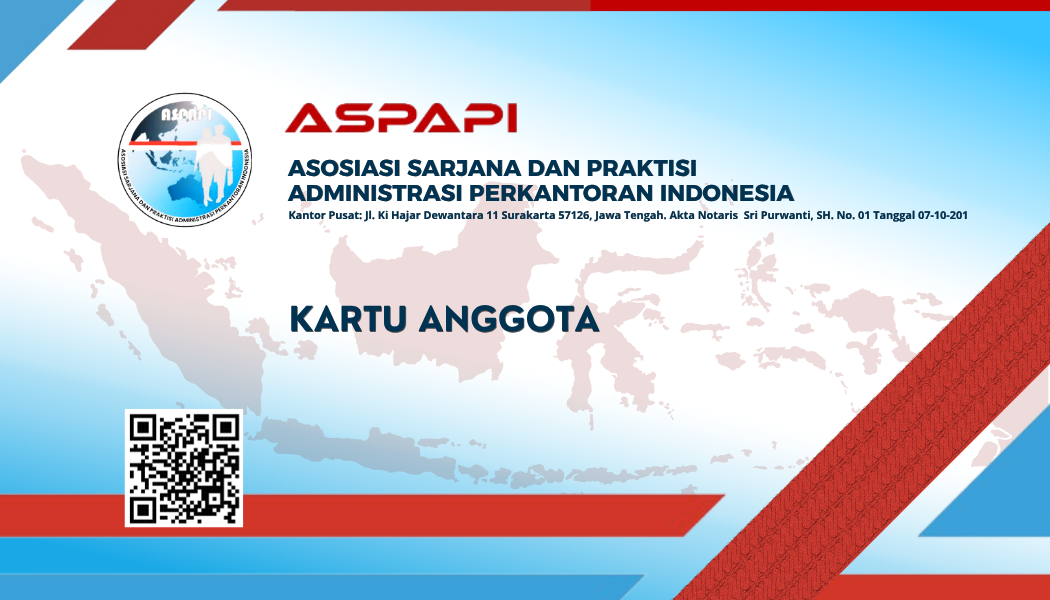
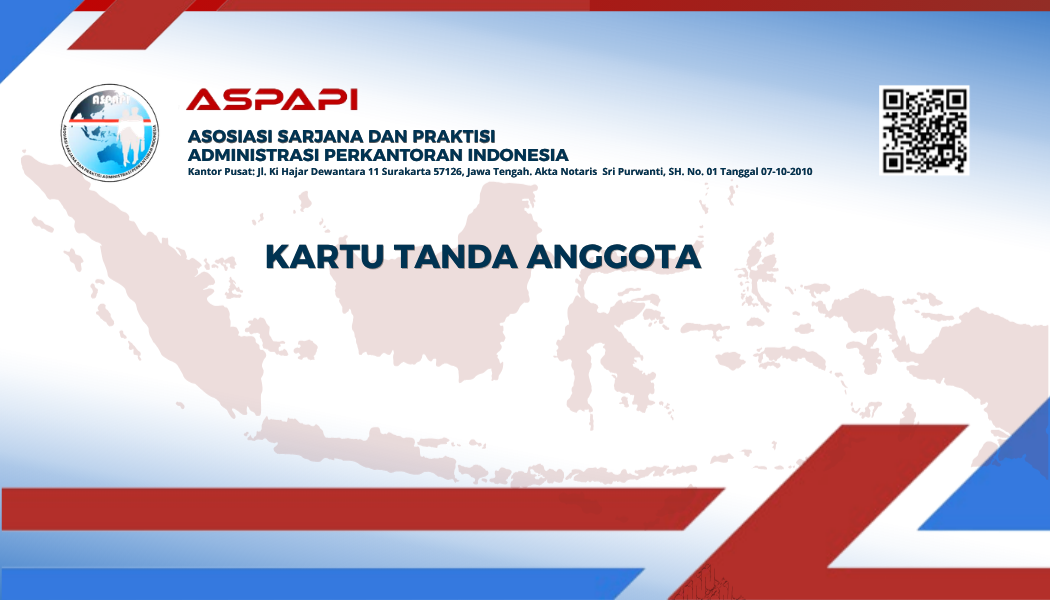
update: kta

diff --git a/aspapi/resources/views/member/card-pdf.blade.php b/aspapi/resources/views/member/card-pdf.blade.php
@@ -37,21 +37,36 @@
         display: block;
     }
 
+    /* ── QR: pojok kanan atas ── */
+    .qr-wrap {
+        position: absolute;
+        right: 2mm;
+        top: 2mm;
+        width: 13mm;
+        height: 13mm;
+        overflow: hidden;
+    }
+    .qr-wrap img {
+        width: 13mm;
+        height: 13mm;
+        display: block;
+    }
+
+    /* ── Foto: kiri bawah, sejajar area identitas ── */
     .photo-wrap {
         position: absolute;
-        right: 12.5mm;
-        top: 28mm;
-        width: 14.5mm;
-        height: 18.7mm;
+        left: 2.5mm;
+        top: 26mm;
+        width: 18mm;
+        height: 22mm;
         overflow: hidden;
-        border-radius: 12px;
+        border-radius: 3px;
         border: 1px solid #b0bac5;
     }
     .photo-wrap img {
-        width: 16.6mm;
-        height: 20.7mm;
+        width: 18mm;
+        height: 22mm;
         display: block;
-        margin-left: -1mm;
     }
 
     .photo-placeholder {
@@ -61,26 +76,12 @@
         display: block;
     }
 
-    .qr-wrap {
-        position: absolute;
-        left: 7.3mm;
-        top: 30.1mm;
-        width: 14.5mm;
-        height: 14.5mm;
-        overflow: hidden;
-    }
-    .qr-wrap img {
-        width: 14.5mm;
-        height: 14.5mm;
-        display: block;
-    }
-
-    /* ── Nama: 1 baris ── */
+    /* ── Nama ── */
     .member-name.single {
         position: absolute;
-        top: 34.2mm;
-        left: 24.9mm;
-        right: 18.7mm;
+        top: 27mm;
+        left: 23mm;
+        right: 2mm;
         font-size: 6pt;
         font-weight: 900;
         color: #0D2240;
@@ -89,12 +90,11 @@
         overflow: hidden;
     }
 
-    /* ── Nama: 2 baris ── */
     .member-name.double {
         position: absolute;
-        top: 31.5mm;
-        left: 24.9mm;
-        right: 18.7mm;
+        top: 26mm;
+        left: 23mm;
+        right: 2mm;
         font-size: 5.5pt;
         font-weight: 900;
         color: #0D2240;
@@ -103,12 +103,11 @@
         overflow: hidden;
     }
 
-    /* ── Nama: 3 baris ── */
     .member-name.triple {
         position: absolute;
-        top: 29.5mm;
-        left: 24.9mm;
-        right: 18.7mm;
+        top: 25mm;
+        left: 23mm;
+        right: 2mm;
         font-size: 5pt;
         font-weight: 900;
         color: #0D2240;
@@ -120,11 +119,11 @@
     /* ── NIA ── */
     .member-nia.single {
         position: absolute;
-        top: 36.8mm;
-        left: 24.9mm;
-        right: 18.7mm;
-        font-size: 6pt;
-        font-weight: 400;
+        top: 30mm;
+        left: 23mm;
+        right: 2mm;
+        font-size: 6.5pt;
+        font-weight: 700;
         color: #0D2240;
         letter-spacing: 0.06em;
         line-height: 1.1;
@@ -132,11 +131,11 @@
 
     .member-nia.double {
         position: absolute;
-        top: 37.8mm;
-        left: 24.9mm;
-        right: 18.7mm;
-        font-size: 5.5pt;
-        font-weight: 400;
+        top: 32mm;
+        left: 23mm;
+        right: 2mm;
+        font-size: 6pt;
+        font-weight: 700;
         color: #0D2240;
         letter-spacing: 0.06em;
         line-height: 1.1;
@@ -144,29 +143,48 @@
 
     .member-nia.triple {
         position: absolute;
-        top: 38.8mm;
-        left: 24.9mm;
-        right: 18.7mm;
-        font-size: 5pt;
-        font-weight: 400;
+        top: 33.5mm;
+        left: 23mm;
+        right: 2mm;
+        font-size: 5.5pt;
+        font-weight: 700;
         color: #0D2240;
         letter-spacing: 0.06em;
         line-height: 1.1;
     }
 
-    .member-valid {
+    /* ── Berlaku Sampai ── */
+    .member-valid.single {
         position: absolute;
-        top: 41.9mm;
-        left: 0;
-        right: 0;
-        font-size: 4pt;
+        top: 33mm;
+        left: 23mm;
+        right: 2mm;
+        font-size: 5pt;
         font-weight: 700;
-        color: #ffffff;
-        padding: 1mm 7.3mm 1mm 24.9mm;
-        display: block;
-        white-space: nowrap;
-        line-height: 1.4;
-        text-align: left;
+        color: #0D2240;
+        line-height: 1.2;
+    }
+
+    .member-valid.double {
+        position: absolute;
+        top: 35mm;
+        left: 23mm;
+        right: 2mm;
+        font-size: 5pt;
+        font-weight: 700;
+        color: #0D2240;
+        line-height: 1.2;
+    }
+
+    .member-valid.triple {
+        position: absolute;
+        top: 36.5mm;
+        left: 23mm;
+        right: 2mm;
+        font-size: 4.5pt;
+        font-weight: 700;
+        color: #0D2240;
+        line-height: 1.2;
     }
 
     </style>
@@ -176,15 +194,20 @@
 @php
     $cardLines = array_values(array_filter($member->card_name_lines));
     $lineCount = count($cardLines);
-    $nameClass = match($lineCount) {
+    $nameClass  = match($lineCount) {
         1       => 'member-name single',
         2       => 'member-name double',
         default => 'member-name triple',
     };
-    $niaClass  = match($lineCount) {
+    $niaClass   = match($lineCount) {
         1       => 'member-nia single',
         2       => 'member-nia double',
         default => 'member-nia triple',
+    };
+    $validClass = match($lineCount) {
+        1       => 'member-valid single',
+        2       => 'member-valid double',
+        default => 'member-valid triple',
     };
 @endphp
 
@@ -195,6 +218,14 @@
         <img class="card-bg" src="{{ $frontBase64 }}" alt=""/>
         @endif
 
+        {{-- QR: pojok kanan atas --}}
+        @if($qrBase64)
+        <div class="qr-wrap">
+            <img src="{{ $qrBase64 }}" alt="QR"/>
+        </div>
+        @endif
+
+        {{-- Foto: kiri bawah --}}
         <div class="photo-wrap">
             @if($photoBase64)
                 <img src="{{ $photoBase64 }}" alt=""/>
@@ -203,21 +234,18 @@
             @endif
         </div>
 
-        @if($qrBase64)
-        <div class="qr-wrap">
-            <img src="{{ $qrBase64 }}" alt="QR"/>
-        </div>
-        @endif
-
+        {{-- Nama --}}
         <div class="{{ $nameClass }}">
             @foreach($cardLines as $line)
                 <div>{{ $line }}</div>
             @endforeach
         </div>
 
+        {{-- NIA --}}
         <div class="{{ $niaClass }}">NIA. {{ $member->member_number }}</div>
 
-        <div class="member-valid">Berlaku Sampai: {{ $member->active_until
+        {{-- Berlaku Sampai --}}
+        <div class="{{ $validClass }}">Berlaku Sampai: {{ $member->active_until
             ? $member->active_until->translatedFormat('d F Y')
             : now()->addYear()->translatedFormat('d F Y') }}</div>
 

diff --git a/aspapi/resources/views/member/card.blade.php b/aspapi/resources/views/member/card.blade.php
@@ -38,8 +38,9 @@
         $cardLines    = array_values(array_filter($member->card_name_lines));
         $lineCount    = count($cardLines);
         $nameFontSize = match($lineCount) { 1 => '9px', 2 => '7.5px', default => '6.5px' };
-        $nameTop      = match($lineCount) { 1 => '127px', 2 => '119px', default => '112px' };
-        $niaTop       = match($lineCount) { 1 => '141px', 2 => '146px', default => '151px' };
+        $nameTop      = match($lineCount) { 1 => '131px', 2 => '124px', default => '117px' };
+        $niaTop       = match($lineCount) { 1 => '145px', 2 => '153px', default => '160px' };
+        $validTop     = match($lineCount) { 1 => '158px', 2 => '166px', default => '173px' };
         $nameLineH    = match($lineCount) { 1 => '1.1', 2 => '1.3', default => '1.25' };
     @endphp
 
@@ -49,14 +50,17 @@
         <img src="{{ $frontBase64 ?? asset('images/kta-depan.png') }}"
              style="position:absolute;top:0;left:0;width:100%;height:100%;display:block;" alt=""/>
 
-        {{-- Foto --}}
-        <div style="position:absolute;right:48px;top:107px;width:54px;height:69px;overflow:hidden;border-radius:5px;border:1px solid #b0bac5;">
+        {{-- QR: pojok kanan atas --}}
+        {{-- QR di preview dikosongkan, sudah ada di background --}}
+
+        {{-- Foto: kiri bawah --}}
+        <div style="position:absolute;left:10px;top:100px;width:68px;height:84px;overflow:hidden;border-radius:3px;border:1px solid #b0bac5;">
             @if ($member->photo)
                 <img src="{{ Storage::url($member->photo) }}"
                      style="width:100%;height:100%;object-fit:cover;object-position:center top;display:block;" alt="foto"/>
             @else
                 <div style="width:100%;height:100%;background:#b0bac5;display:flex;align-items:center;justify-content:center;">
-                    <svg style="width:22px;height:22px;" fill="none" stroke="#fff" viewBox="0 0 24 24">
+                    <svg style="width:24px;height:24px;" fill="none" stroke="#fff" viewBox="0 0 24 24">
                         <path stroke-linecap="round" stroke-linejoin="round" stroke-width="1.5" d="M16 7a4 4 0 11-8 0 4 4 0 018 0zM12 14a7 7 0 00-7 7h14a7 7 0 00-7-7z"/>
                     </svg>
                 </div>
@@ -64,7 +68,7 @@
         </div>
 
         {{-- Nama --}}
-        <div style="position:absolute;top:{{ $nameTop }};left:90px;right:72px;
+        <div style="position:absolute;top:{{ $nameTop }};left:88px;right:8px;
                     font-family:Arial,sans-serif;font-size:{{ $nameFontSize }};font-weight:900;
                     color:#0D2240;letter-spacing:0.02em;line-height:{{ $nameLineH }};overflow:hidden;">
             @foreach($cardLines as $line)
@@ -73,18 +77,16 @@
         </div>
 
         {{-- NIA --}}
-        <div style="position:absolute;top:{{ $niaTop }};left:90px;right:72px;
-                    font-family:'Courier New',monospace;font-size:8px;font-weight:700;
+        <div style="position:absolute;top:{{ $niaTop }};left:88px;right:8px;
+                    font-family:'Courier New',monospace;font-size:9px;font-weight:700;
                     color:#0D2240;letter-spacing:0.06em;line-height:1.2;">
             NIA. {{ $member->member_number }}
         </div>
 
-        {{-- Strip Berlaku Sampai --}}
-        <div style="position:absolute;bottom:0;left:0;right:0;
-                    background-color:#C0272D;
-                    font-family:Arial,sans-serif;font-size:8px;font-weight:700;
-                    color:#fff;padding:4px 8px 4px 90px;
-                    white-space:nowrap;line-height:1.4;">
+        {{-- Berlaku Sampai --}}
+        <div style="position:absolute;top:{{ $validTop }};left:88px;right:8px;
+                    font-family:Arial,sans-serif;font-size:7px;font-weight:700;
+                    color:#0D2240;line-height:1.2;">
             Berlaku Sampai: {{ $member->active_until
                 ? $member->active_until->translatedFormat('d F Y')
                 : now()->addYear()->translatedFormat('d F Y') }}
